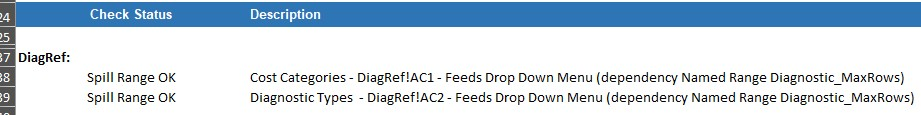
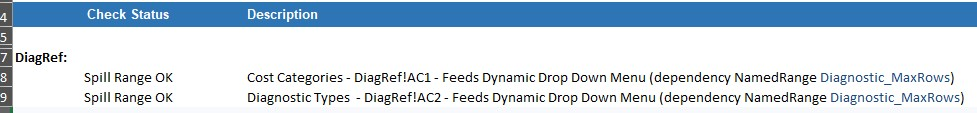
edit

diff --git a/_posts/2026-06-17-the-spill-error-you-didnt-see.md b/_posts/2026-06-17-the-spill-error-you-didnt-see.md
@@ -2,11 +2,14 @@
 title: "The #SPILL! error you didn't see"
 ---
 
+3 Minute Read
+
+
 # One formula that catches silent model errors before they matter
 
 There is a category of Excel error that is particularly dangerous in financial models: the kind that doesn't look like an error at all.
 
-A blocked spill range is exactly that. If a dynamic array formula can't spill because another value is sitting in its path, Excel returns a `#SPILL!` error in the formula cell itself. That part is visible. What is less obvious is that any formula elsewhere in your model that references the spill range will simply return zero or blank, with no error of its own to flag that something is wrong. Your totals update, your reports populate and everything looks fine. It's really not fine.
+A blocked spill range is exactly that. If a dynamic array formula can't spill because another value is sitting in its path, Excel returns a `#SPILL!` error in the formula cell itself. That part is visible. What's less obvious is that any formula elsewhere in your model that references the spill range will simply return zero or blank, with no error of its own to flag that something is wrong. Totals update, reports populate and everything looks fine. But it's really not fine.
 
 I now add a check for this on the QC tab of every model that uses dynamic arrays.
 